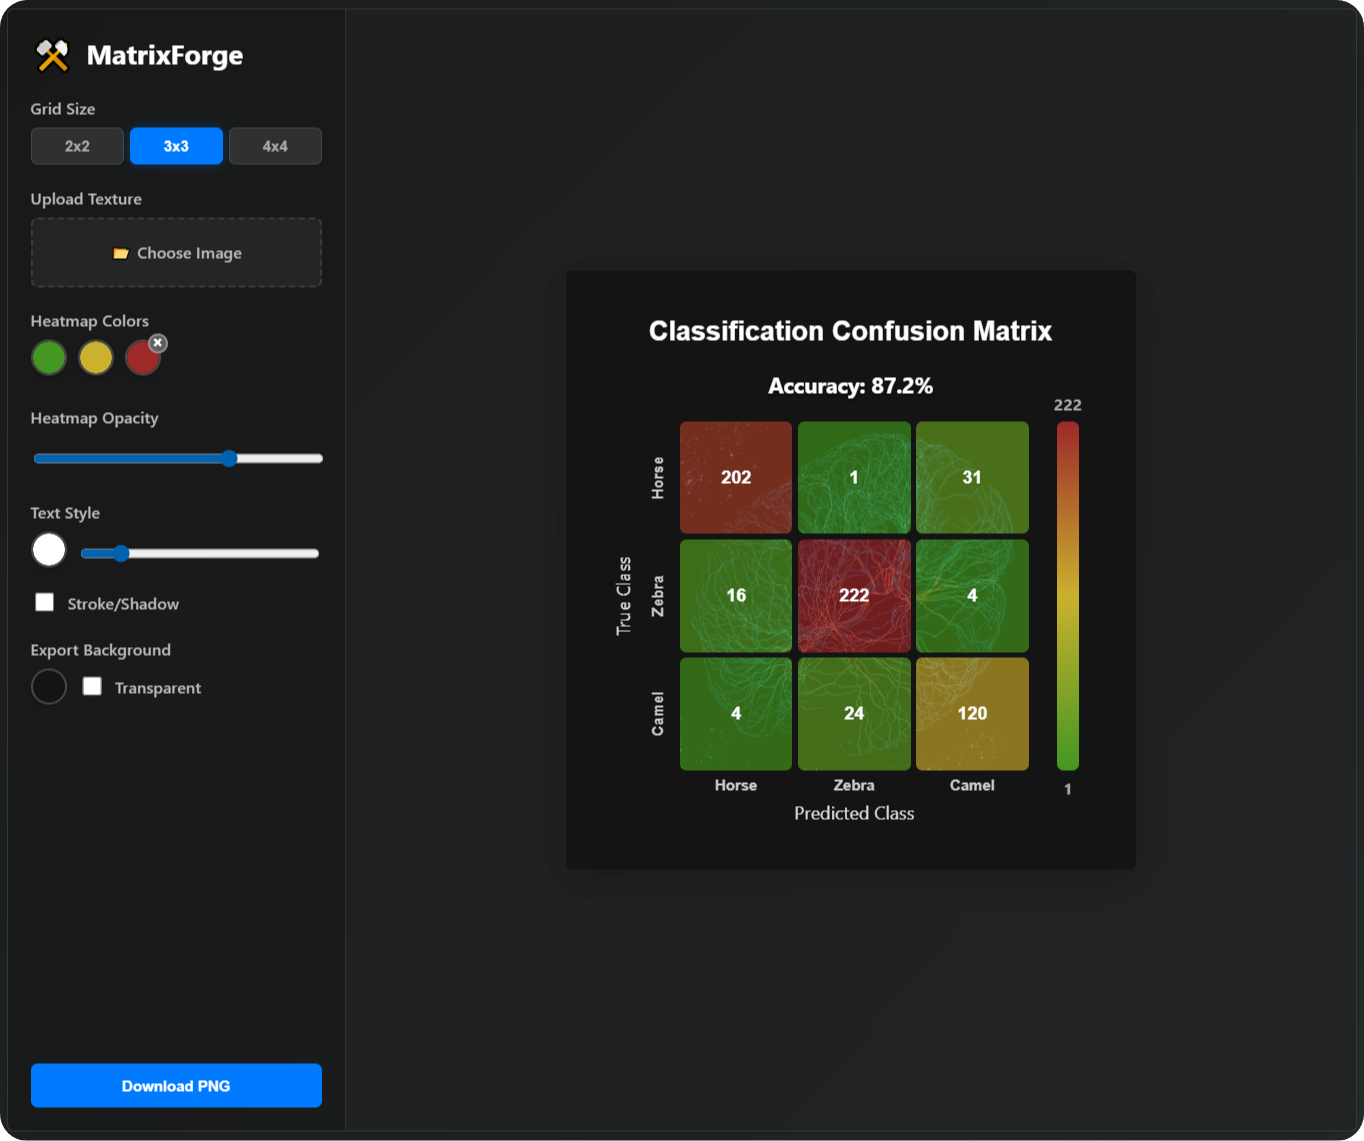
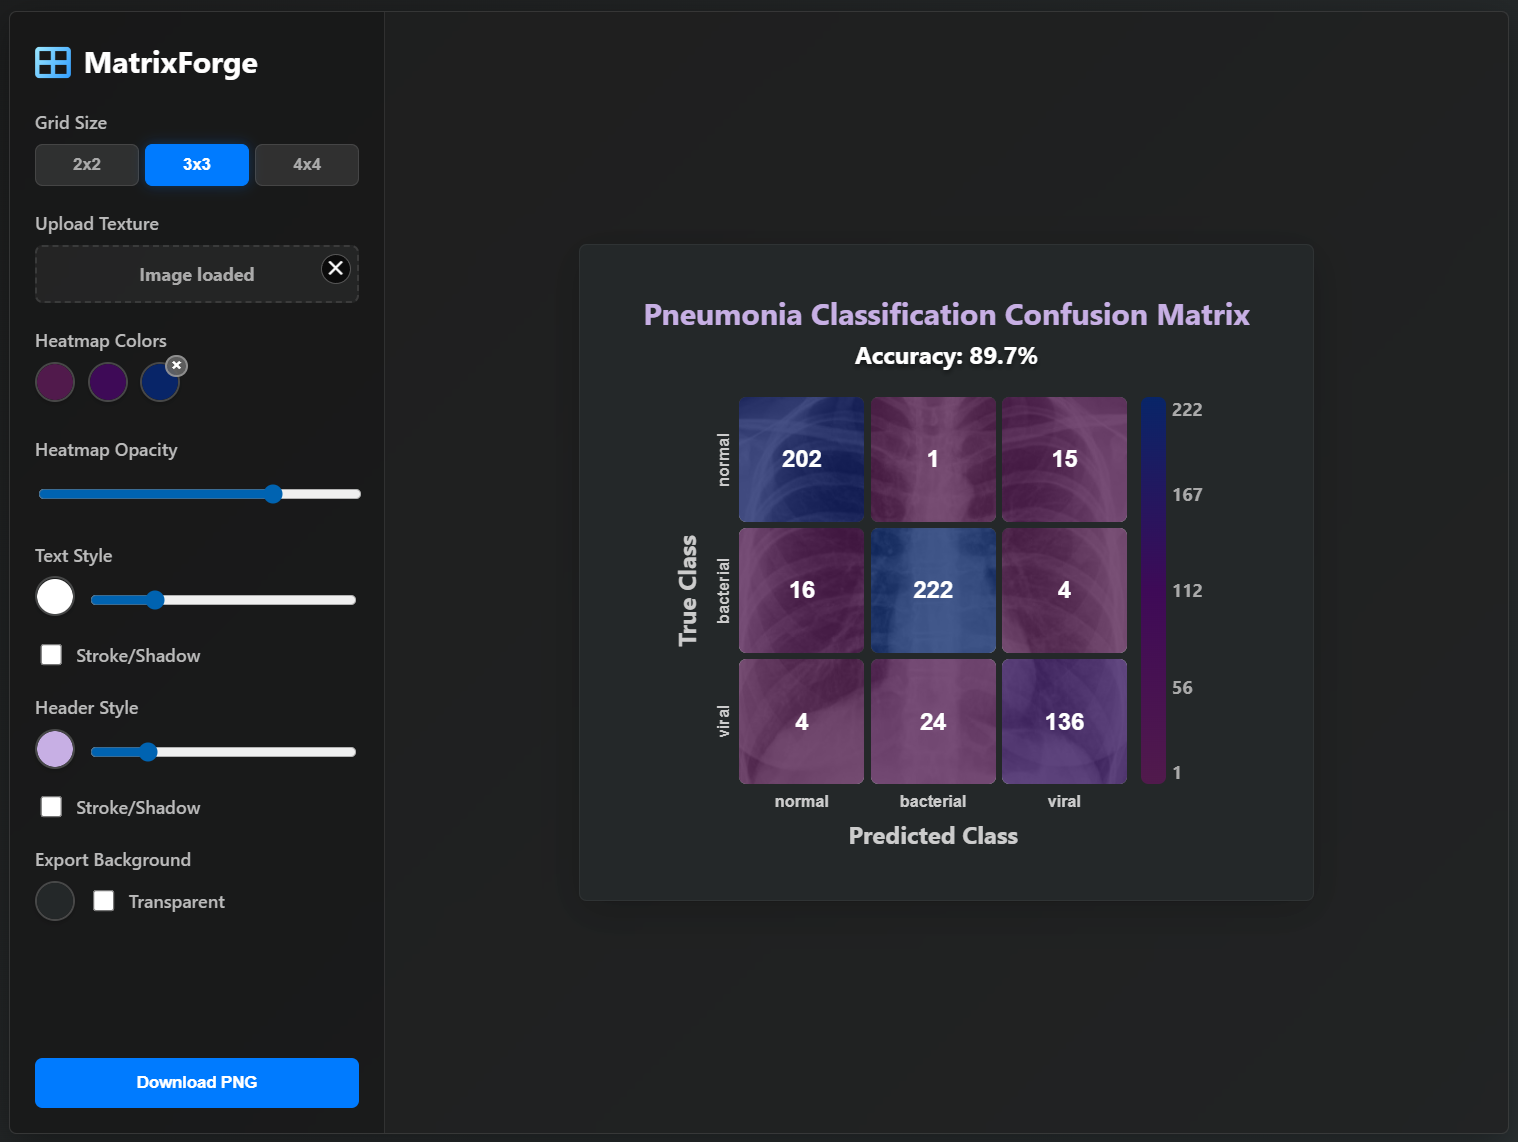
visual improvement

diff --git a/script.js b/script.js
@@ -193,10 +193,50 @@ document.addEventListener('DOMContentLoaded', () => {
                 state.bgImage = event.target.result;
                 state.bgImageAspect = img.width / img.height;
                 updateCellBackgrounds();
+                updateImageUploadUI();
             };
             img.src = event.target.result;
         };
         reader.readAsDataURL(file);
+    }
+
+    function updateImageUploadUI() {
+        const uploadLabel = document.querySelector('.file-upload-btn');
+        uploadLabel.classList.toggle('has-image', Boolean(state.bgImage));
+        
+        if (state.bgImage) {
+            // Compact "loaded" state (no preview image)
+            uploadLabel.innerHTML = `
+                <span class="upload-loaded-text">Image loaded</span>
+                <button class="remove-image-btn" type="button" aria-label="Remove image">✕</button>
+                <input type="file" id="bg-upload" accept="image/*">
+            `;
+            
+            // Re-attach event listeners
+            const newInput = uploadLabel.querySelector('input');
+            newInput.addEventListener('change', handleImageUpload);
+            
+            const removeBtn = uploadLabel.querySelector('.remove-image-btn');
+            removeBtn.addEventListener('click', (e) => {
+                e.preventDefault();
+                e.stopPropagation();
+                state.bgImage = null;
+                updateCellBackgrounds();
+                updateImageUploadUI();
+            });
+        } else {
+            // Show default upload button
+            uploadLabel.innerHTML = `
+                <span>📂 Choose Image</span>
+                <input type="file" id="bg-upload" accept="image/*">
+            `;
+            
+            const newInput = uploadLabel.querySelector('input');
+            newInput.addEventListener('change', handleImageUpload);
+        }
+        
+        // Update DOM reference
+        elements.bgUpload = document.getElementById('bg-upload');
     }
 
     function renderGrid() {
@@ -359,10 +399,19 @@ document.addEventListener('DOMContentLoaded', () => {
     }
 
     function updateCellBackgrounds() {
-        if (!state.bgImage) return;
+        const cells = document.querySelectorAll('.cell-bg');
+
+        // If there's no image, clear any previous backgrounds.
+        if (!state.bgImage) {
+            cells.forEach(bgDiv => {
+                bgDiv.style.backgroundImage = 'none';
+                bgDiv.style.backgroundSize = '';
+                bgDiv.style.backgroundPosition = '';
+            });
+            return;
+        }
 
         const size = state.gridSize;
-        const cells = document.querySelectorAll('.cell-bg');
         
         // Calculate total grid dimensions (excluding headers)
         const totalW = size * CELL_SIZE + (size - 1) * GAP_SIZE;
@@ -626,19 +675,100 @@ document.addEventListener('DOMContentLoaded', () => {
             quality: 1.0
         };
 
-        // Add background color if not transparent
-        if (!elements.transparentBg.checked) {
+        // html-to-image can render <input> text with inconsistent padding/alignment.
+        // For export, we temporarily hide inputs and overlay centered text nodes.
+        const exportOverlays = [];
+        const inputsForExport = node.querySelectorAll('input.cell-input');
+        inputsForExport.forEach((input) => {
+            const overlay = document.createElement('div');
+            overlay.className = 'cell-export-text';
+            overlay.textContent = input.value;
+
+            const computed = window.getComputedStyle(input);
+            overlay.style.color = computed.color;
+            overlay.style.fontSize = computed.fontSize;
+            overlay.style.fontFamily = computed.fontFamily;
+            overlay.style.fontWeight = computed.fontWeight;
+            overlay.style.textShadow = computed.textShadow;
+
+            const prevVisibility = input.style.visibility;
+            input.style.visibility = 'hidden';
+
+            // Position within the cell
+            overlay.style.position = 'absolute';
+            overlay.style.inset = '0';
+            overlay.style.zIndex = '3';
+            overlay.style.display = 'flex';
+            overlay.style.alignItems = 'center';
+            overlay.style.justifyContent = 'center';
+            overlay.style.textAlign = 'center';
+            overlay.style.pointerEvents = 'none';
+            overlay.style.lineHeight = '1';
+
+            input.parentElement.appendChild(overlay);
+            exportOverlays.push({ input, prevVisibility, overlay });
+        });
+
+        // Store original styles
+        const originalBg = node.style.backgroundColor;
+        const originalBackdrop = node.style.backdropFilter;
+        const originalWebkitBackdrop = node.style.webkitBackdropFilter;
+        const originalBorder = node.style.border;
+        const originalBoxShadow = node.style.boxShadow;
+        const originalPadding = node.style.padding;
+        const originalBorderRadius = node.style.borderRadius;
+        const hadCheckerboard = node.classList.contains('checkerboard-bg');
+
+        const restoreAfterExport = () => {
+            // Restore input visibility and remove overlays
+            exportOverlays.forEach(({ input, prevVisibility, overlay }) => {
+                input.style.visibility = prevVisibility;
+                overlay.remove();
+            });
+
+            // Restore original styles if we altered them
+            if (elements.transparentBg.checked) {
+                if (hadCheckerboard) {
+                    node.classList.add('checkerboard-bg');
+                }
+                node.style.backgroundColor = originalBg;
+                node.style.backdropFilter = originalBackdrop;
+                node.style.webkitBackdropFilter = originalWebkitBackdrop;
+                node.style.border = originalBorder;
+                node.style.boxShadow = originalBoxShadow;
+                node.style.padding = originalPadding;
+                node.style.borderRadius = originalBorderRadius;
+            }
+        };
+
+        // If transparent, remove all backgrounds and frame temporarily
+        if (elements.transparentBg.checked) {
+            if (hadCheckerboard) {
+                node.classList.remove('checkerboard-bg');
+            }
+            node.style.backgroundColor = 'transparent';
+            node.style.backdropFilter = 'none';
+            node.style.webkitBackdropFilter = 'none';
+            node.style.border = 'none';
+            node.style.boxShadow = 'none';
+            node.style.padding = '0';
+            node.style.borderRadius = '0';
+        } else {
+            // Add solid background color if not transparent
             options.backgroundColor = elements.bgColor.value;
         }
 
         htmlToImage.toPng(node, options)
             .then(function (dataUrl) {
+                restoreAfterExport();
+                
                 const link = document.createElement('a');
                 link.download = 'matrix-forge.png';
                 link.href = dataUrl;
                 link.click();
             })
             .catch(function (error) {
+                restoreAfterExport();
                 console.error('oops, something went wrong!', error);
                 alert('Failed to generate image.');
             });

diff --git a/style.css b/style.css
@@ -61,6 +61,29 @@ body {
     font-size: 1.8rem;
 }
 
+.app-icon i {
+    background: linear-gradient(120deg, #b2f7ff, #007bff 80%);
+    background-size: 200% 200%;
+    background-position: 0% 50%;
+    -webkit-background-clip: text;
+    -webkit-text-fill-color: transparent;
+    background-clip: text;
+    text-fill-color: transparent;
+    animation: icon-gradient-move 6s ease-in-out infinite;
+}
+
+@keyframes icon-gradient-move {
+    0% {
+        background-position: 0% 50%;
+    }
+    50% {
+        background-position: 100% 50%;
+    }
+    100% {
+        background-position: 0% 50%;
+    }
+}
+
 .grid-size-controls {
     display: flex;
     gap: 5px;
@@ -174,6 +197,7 @@ button:hover {
 }
 
 .file-upload-btn {
+    position: relative;
     display: flex;
     align-items: center;
     justify-content: center;
@@ -197,6 +221,15 @@ button:hover {
 
 .file-upload-btn input {
     display: none;
+}
+
+.file-upload-btn.has-image {
+    padding: 12px;
+}
+
+.upload-loaded-text {
+    color: #aaa;
+    font-weight: bold;
 }
 
 .preview-area {
@@ -426,6 +459,16 @@ button:hover {
     text-align: center;
     font-weight: bold;
     outline: none;
+    padding: 0;
+    margin: 0;
+    box-sizing: border-box;
+    -webkit-appearance: none;
+    appearance: none;
+}
+
+/* Export-only overlay (inserted temporarily by JS) */
+.cell-export-text {
+    font-weight: bold;
 }
 
 /* Color Picker Styling */
@@ -538,6 +581,21 @@ input[type="color"]::-webkit-color-swatch {
     color: #ccc;
 }
 
+/* Main axis labels (e.g., True/Predicted Class) */
+.axis-label {
+    display: flex;
+    justify-content: center;
+    align-items: center;
+    font-weight: bold;
+    font-size: 1.2rem;
+    color: #ccc;
+}
+
+/* Rotated Y axis: add a bit more spacing (visually to the right) */
+.axis-label.y-axis {
+    margin-right: 7px;
+}
+
 .grid-label input {
     width: 100%;
     text-align: center;
@@ -546,6 +604,8 @@ input[type="color"]::-webkit-color-swatch {
     outline: none;
     font-weight: bold;
     color: inherit;
+    font-family: Arial, sans-serif;
+    font-size: 13px;
 }
 
 /* Vertical Labels for Y-Axis Rows */
@@ -554,10 +614,11 @@ input[type="color"]::-webkit-color-swatch {
     transform: rotate(180deg);
     height: 100px; /* Match cell height */
     width: auto;
+    margin-right: 3px;
 }
 
 .y-axis-label input {
-    width: 30px; /* Narrow width for vertical text container */
+    width: 10px; /* Narrow width for vertical text container */
     height: 100%;
 }
 
@@ -577,4 +638,30 @@ input[type=number]::-webkit-outer-spin-button {
         linear-gradient(-45deg, transparent 75%, rgba(50, 50, 50, 0.5) 75%);
     background-size: 20px 20px;
     background-position: 0 0, 0 10px, 10px -10px, -10px 0px;
+}
+
+.remove-image-btn {
+    position: absolute;
+    top: 5px;
+    right: 5px;
+    width: 24px;
+    height: 24px;
+    padding: 0;
+    background: rgba(0, 0, 0, 0.7);
+    color: white;
+    border: 1px solid rgba(255, 255, 255, 0.3);
+    border-radius: 50%;
+    cursor: pointer;
+    display: flex;
+    align-items: center;
+    justify-content: center;
+    font-size: 14px;
+    line-height: 1;
+    transition: all 0.2s;
+    z-index: 10;
+}
+
+.remove-image-btn:hover {
+    background: rgba(255, 0, 0, 0.8);
+    transform: scale(1.1);
 }

diff --git a/index.html b/index.html
@@ -5,11 +5,15 @@
     <meta name="viewport" content="width=device-width, initial-scale=1.0">
     <title>MatrixForge</title>
     <link rel="stylesheet" href="style.css">
+    <!-- Font Awesome Free CDN -->
+    <link rel="stylesheet" href="https://cdnjs.cloudflare.com/ajax/libs/font-awesome/6.5.2/css/all.min.css" integrity="sha512-..." crossorigin="anonymous" referrerpolicy="no-referrer" />
+    <!-- Favicon -->
+    <link rel="icon" type="image/png" href="favicon.png">
 </head>
 <body>
     <div class="app-container">
         <aside class="sidebar">
-            <h1><span class="app-icon">⚒</span> MatrixForge</h1>
+            <h1><span class="app-icon"><i class="fas fa-th-large"></i></span> MatrixForge</h1>
             
             <div class="control-group">
                 <label>Grid Size</label>
